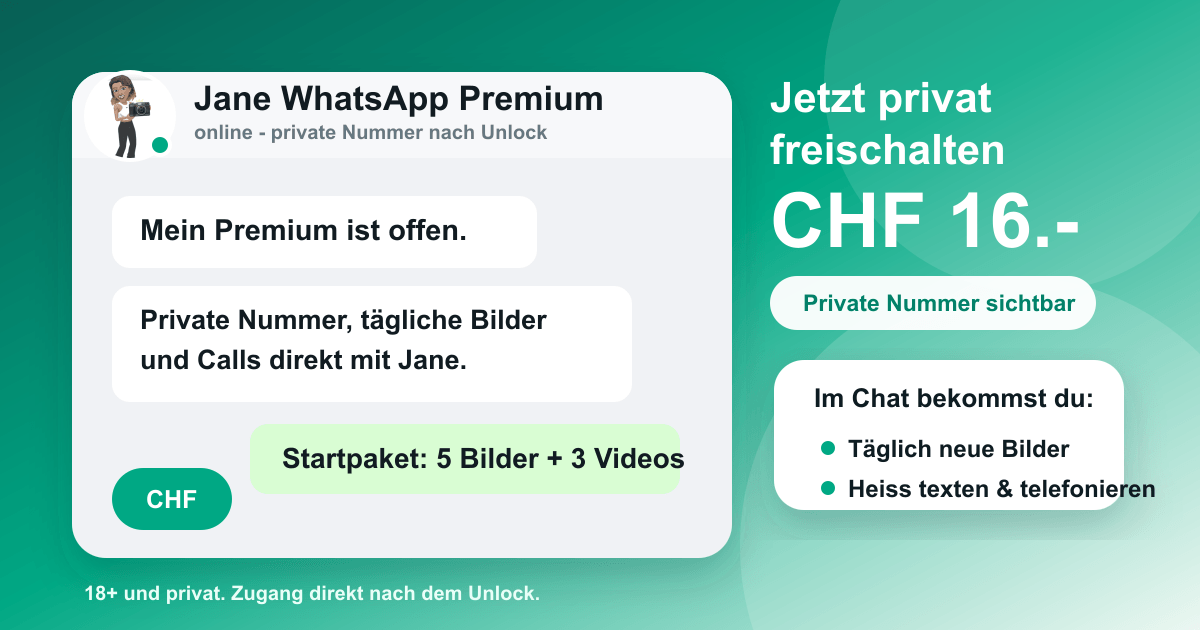
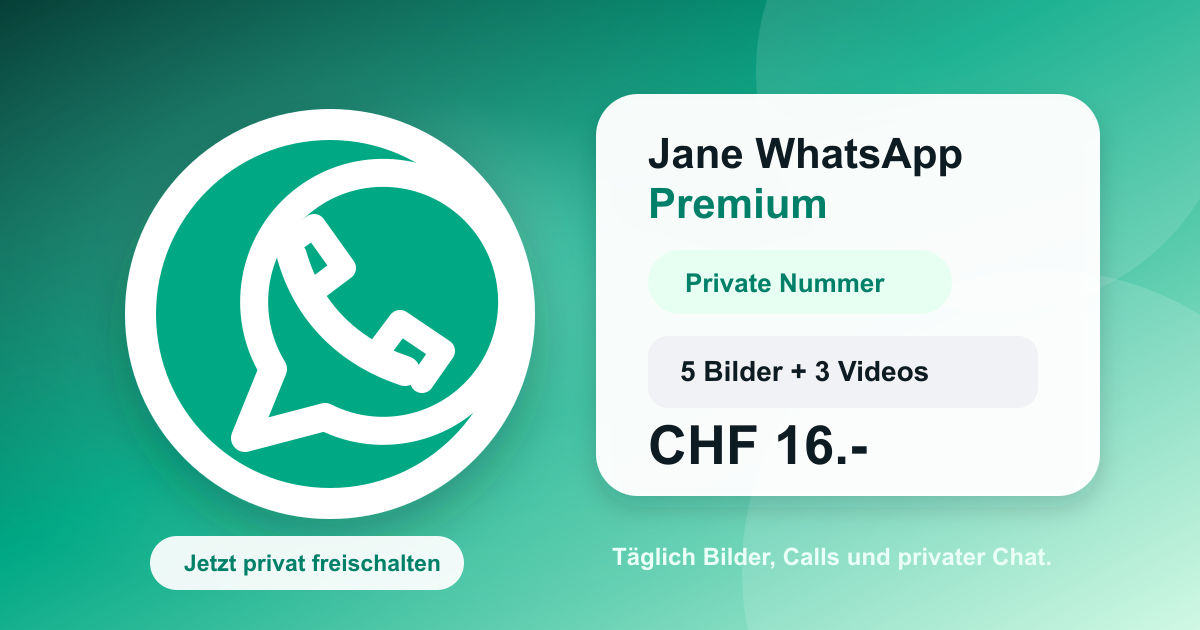
Polish WhatsApp share image

diff --git a/index.html b/index.html
@@ -20,11 +20,11 @@
     />
     <meta
       property="og:image"
-      content="https://jane-whatsapp.onrender.com/assets/whatsapp-premium-preview.png?v=share-16"
+      content="https://jane-whatsapp.onrender.com/assets/whatsapp-premium-preview.png?v=round-logo"
     />
     <meta
       property="og:image:secure_url"
-      content="https://jane-whatsapp.onrender.com/assets/whatsapp-premium-preview.png?v=share-16"
+      content="https://jane-whatsapp.onrender.com/assets/whatsapp-premium-preview.png?v=round-logo"
     />
     <meta property="og:image:type" content="image/png" />
     <meta property="og:image:width" content="1200" />
@@ -38,7 +38,7 @@
     />
     <meta
       name="twitter:image"
-      content="https://jane-whatsapp.onrender.com/assets/whatsapp-premium-preview.png?v=share-16"
+      content="https://jane-whatsapp.onrender.com/assets/whatsapp-premium-preview.png?v=round-logo"
     />
     <link
       rel="icon"
